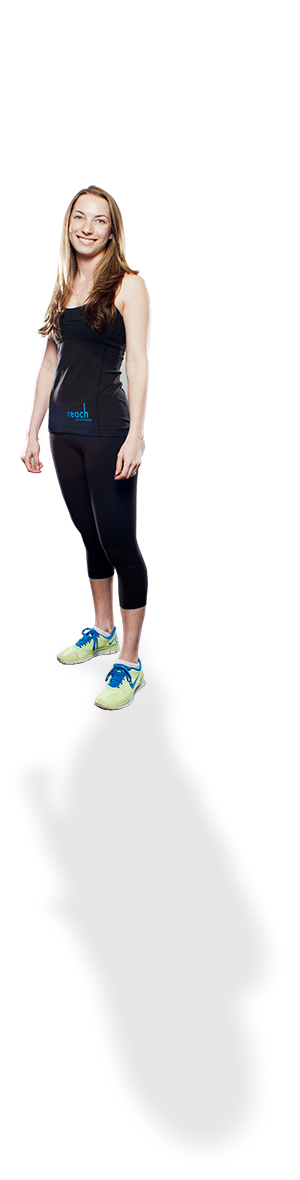
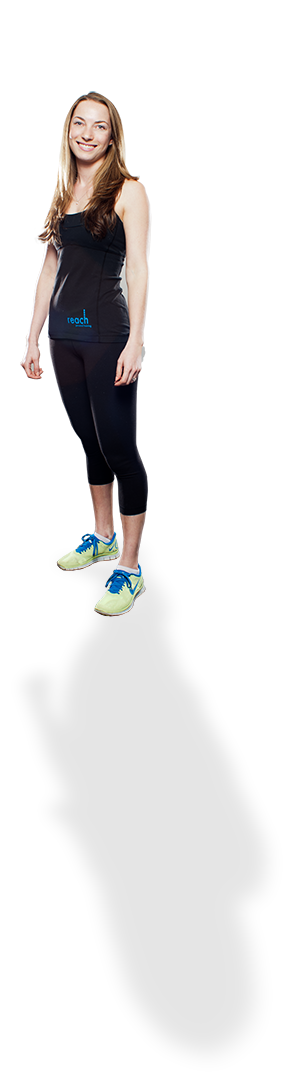
positioning coaches

Changed region(s): [[0.06, 0.0611, 0.51, 0.6111]]

diff --git a/css/coaches.css b/css/coaches.css
@@ -34,38 +34,38 @@ body{
 }*/
 #craig{
 	position:fixed;
-	top:110px;
-	left:0%;
-	width:28%;
+	top:15%;
+	left:-9%;
+	width:42%;
 	height:100%;
 }
 
 #jacob{
 	position:fixed;
-	top:110px;
-	left:28%;
-	width:13%;
+	top:15%;
+	left:25%;
+	width:19%;
 	height:100%;
 }
 #adena{
 	position:fixed;
-	top:110px;
-	left:41%;
-	width:13%;
+	top:15%;
+	left:45%;
+	width:20%;
 	height:100%;
 }
 #ben{
 	position:fixed;
-	top:110px;
-	left:54%;
-	width:21%;
+	top:15%;
+	left:58%;
+	width:32%;
 	height:100%;
 }
 
 #heather{
 	position:fixed;
-	top:110px;
-	left:75%;
-	width:25%;
+	top:15%;
+	left:73%;
+	width:38%;
 	height:100%;
 }

diff --git a/css/overall.css b/css/overall.css
@@ -130,7 +130,8 @@ a:focus {
 
 /*--------- DROPDOWN----------*/
 .navbar .nav .dropdown ul{
-	font-family: "Helvetica-Condensed", sans-serif;
+	font-family: "Gotham-Book", sans-serif;
+	font-size:18px;
 }
 .navbar .nav>li>.dropdown-menu:before,
 .navbar >li>.dropdown-menu:after,
